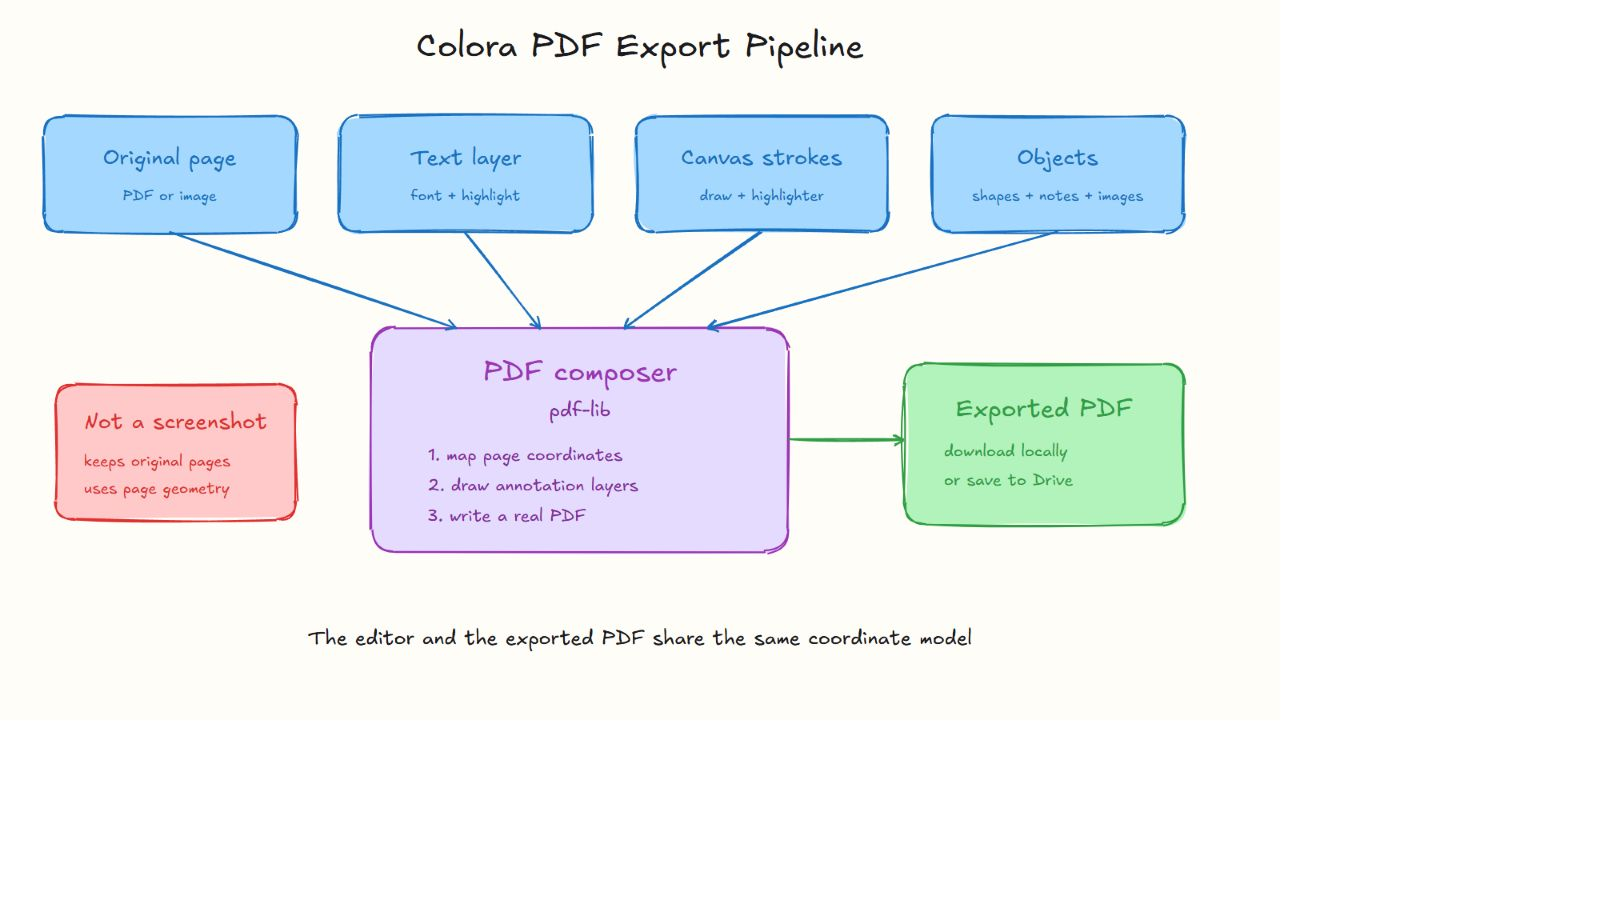
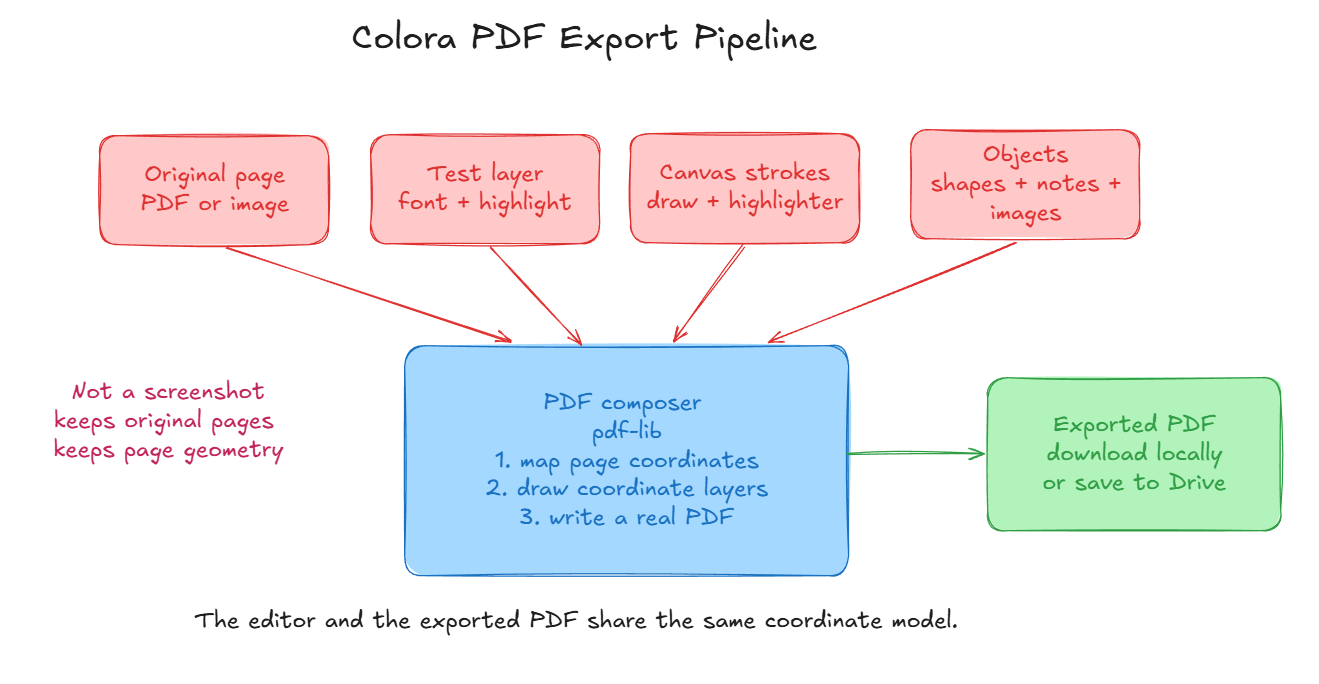
Replace-readme-diagrams-and-embed-demo-video

diff --git a/README.md b/README.md
@@ -17,7 +17,7 @@
 
 ## Demo
 
-https://github.com/arnabjena007/Colora/raw/refs/heads/main/public/assets/colora-demo.mp4
+https://github.com/user-attachments/assets/c21dbb6c-9ea2-4ffe-ab8b-2e262e1f3257
 
 [Open or download the Colora demo video](public/assets/colora-demo.mp4)
 
@@ -65,12 +65,6 @@ Colora is browser-first. The active document, annotation layers, and tool state 
 ### PDF Export Pipeline
 
 ![Colora PDF export pipeline](public/architecture/03-export-pipeline.png)
-
-The diagrams are generated with the project’s Excalifont and RoughJS. Run the generator after changing their content:
-
-```bash
-node scripts/generate-architecture-diagrams.cjs
-```
 
 ---
 
